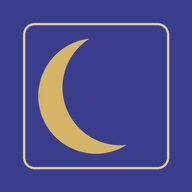
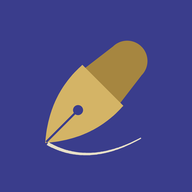
アプリのアイコンをペン先の図柄に変更
執筆のイメージに合わせ、藍の地に金の万年筆のペン先とインクの一筆を描いた。
sw.js の版を上げ、各端末で新しいアイコンが読み込まれるようにする。

Claude-Session: https://claude.ai/code/session_01NRRiwCVoYZ4s5r7PTDsZq4

Changed region(s): [[0.1875, 0.1875, 0.7812, 0.8125], [0.0938, 0.0938, 0.9062, 0.9062]]

diff --git a/sw.js b/sw.js
@@ -1,5 +1,5 @@
 /* オフラインでも開けるように、アプリ本体を端末に保存しておく */
-const VERSION = "kozo-v2";
+const VERSION = "kozo-v3";
 const SHELL = ["./", "./index.html", "./app.js", "./store.js", "./drive.js", "./config.js", "./styles.css",
   "./manifest.webmanifest", "./icons/icon-192.png", "./icons/icon-512.png", "./icons/maskable-512.png"];
 
